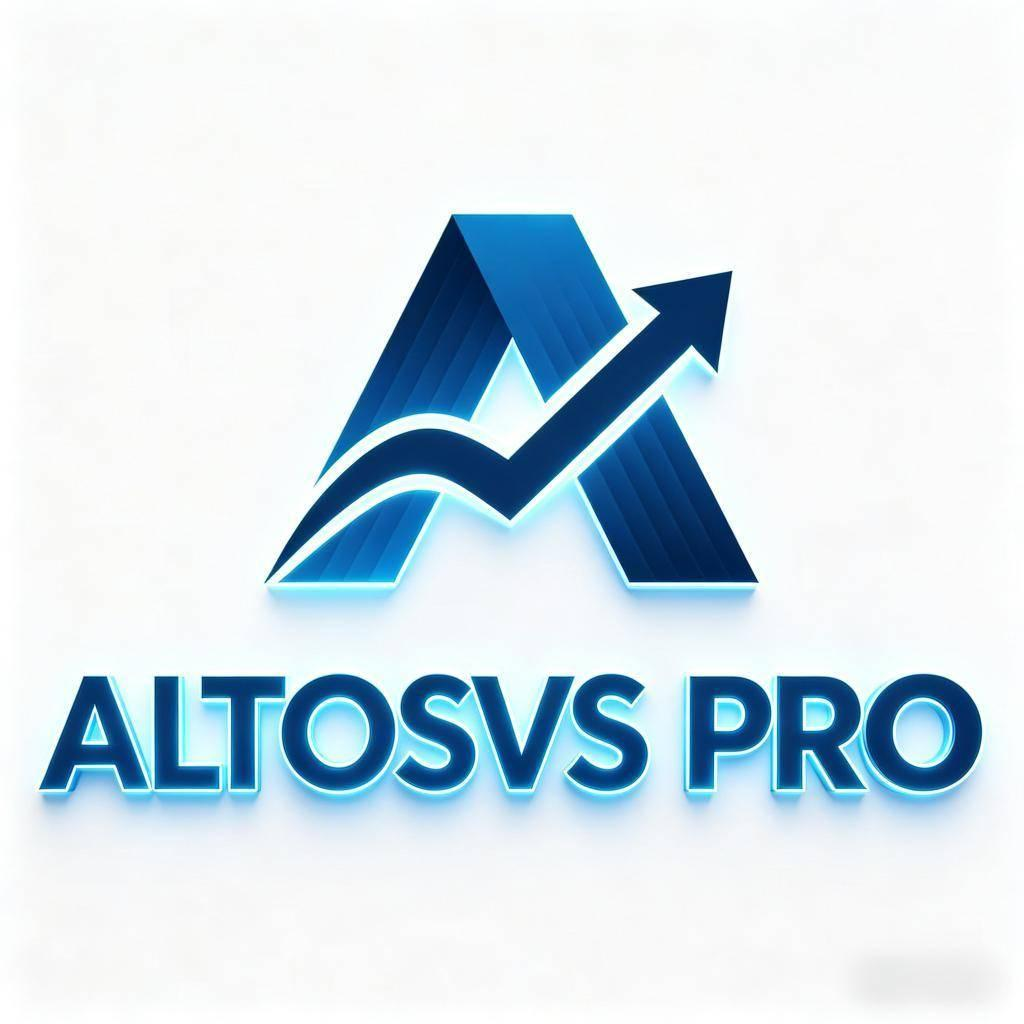
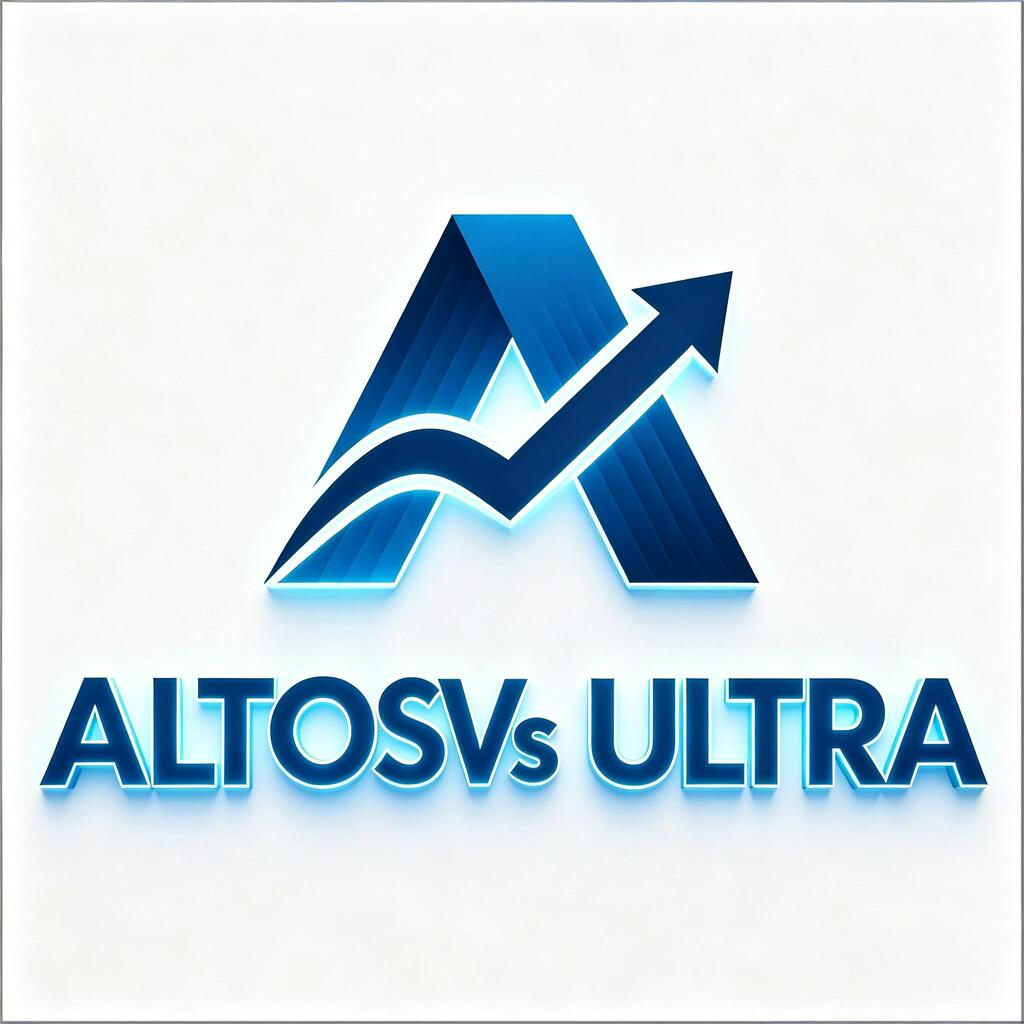
1

diff --git a/ALTOSVS-PRO/privacy.html b/ALTOSVS-PRO/privacy.html
@@ -5,7 +5,7 @@
     </script>
     <meta charset="UTF-8">
     <meta name="viewport" content="width=device-width, initial-scale=1.0">
-    <title>ALTOSVS PRO</title>
+    <title>ALTOSVS ULTRA</title>
     <script>
         !function(e,n){"object"==typeof exports&&"undefined"!=typeof module?module.exports=n():"function"==typeof define&&define.amd?define(n):(e=e||self).uni=n()}(this,(function(){"use strict";try{var e={};Object.defineProperty(e,"passive",{get:function(){!0}}),window.addEventListener("test-passive",null,e)}catch(e){}var n=Object.prototype.hasOwnProperty;function i(e,i){return n.call(e,i)}var t=[];function o(){return window.__dcloud_weex_postMessage||window.__dcloud_weex_}function a(){return window.__uniapp_x_postMessage||window.__uniapp_x_}var r=function(e,n){var i={options:{timestamp:+new Date},name:e,arg:n};if(a()){if("postMessage"===e){var r={data:n};return window.__uniapp_x_postMessage?window.__uniapp_x_postMessage(r):window.__uniapp_x_.postMessage(JSON.stringify(r))}var d={type:"WEB_INVOKE_APPSERVICE",args:{data:i,webviewIds:t}};window.__uniapp_x_postMessage?window.__uniapp_x_postMessageToService(d):window.__uniapp_x_.postMessageToService(JSON.stringify(d))}else if(o()){if("postMessage"===e){var s={data:[n]};return window.__dcloud_weex_postMessage?window.__dcloud_weex_postMessage(s):window.__dcloud_weex_.postMessage(JSON.stringify(s))}var w={type:"WEB_INVOKE_APPSERVICE",args:{data:i,webviewIds:t}};window.__dcloud_weex_postMessage?window.__dcloud_weex_postMessageToService(w):window.__dcloud_weex_.postMessageToService(JSON.stringify(w))}else{if(!window.plus)return window.parent.postMessage({type:"WEB_INVOKE_APPSERVICE",data:i,pageId:""},"*");if(0===t.length){var u=plus.webview.currentWebview();if(!u)throw new Error("plus.webview.currentWebview() is undefined");var g=u.parent(),v="";v=g?g.id:u.id,t.push(v)}if(plus.webview.getWebviewById("__uniapp__service"))plus.webview.postMessageToUniNView({type:"WEB_INVOKE_APPSERVICE",args:{data:i,webviewIds:t}},"__uniapp__service");else{var c=JSON.stringify(i);plus.webview.getLaunchWebview().evalJS('UniPlusBridge.subscribeHandler("'.concat("WEB_INVOKE_APPSERVICE",'",').concat(c,",").concat(JSON.stringify(t),");"))}}},d={navigateTo:function(){var e=arguments.length>0&&void 0!==arguments[0]?arguments[0]:{},n=e.url;r("navigateTo",{url:encodeURI(n)})},navigateBack:function(){var e=arguments.length>0&&void 0!==arguments[0]?arguments[0]:{},n=e.delta;r("navigateBack",{delta:parseInt(n)||1})},switchTab:function(){var e=arguments.length>0&&void 0!==arguments[0]?arguments[0]:{},n=e.url;r("switchTab",{url:encodeURI(n)})},reLaunch:function(){var e=arguments.length>0&&void 0!==arguments[0]?arguments[0]:{},n=e.url;r("reLaunch",{url:encodeURI(n)})},redirectTo:function(){var e=arguments.length>0&&void 0!==arguments[0]?arguments[0]:{},n=e.url;r("redirectTo",{url:encodeURI(n)})},getEnv:function(e){a()?e({uvue:!0}):o()?e({nvue:!0}):window.plus?e({plus:!0}):e({h5:!0})},postMessage:function(){var e=arguments.length>0&&void 0!==arguments[0]?arguments[0]:{};r("postMessage",e.data||{})}},s=/uni-app/i.test(navigator.userAgent),w=/Html5Plus/i.test(navigator.userAgent),u=/complete|loaded|interactive/;var g=window.my&&navigator.userAgent.indexOf(["t","n","e","i","l","C","y","a","p","i","l","A"].reverse().join(""))>-1;var v=window.swan&&window.swan.webView&&/swan/i.test(navigator.userAgent);var c=window.qq&&window.qq.miniProgram&&/QQ/i.test(navigator.userAgent)&&/miniProgram/i.test(navigator.userAgent);var p=window.tt&&window.tt.miniProgram&&/toutiaomicroapp/i.test(navigator.userAgent);var _=window.wx&&window.wx.miniProgram&&/micromessenger/i.test(navigator.userAgent)&&/miniProgram/i.test(navigator.userAgent);var m=window.qa&&/quickapp/i.test(navigator.userAgent);var f=window.ks&&window.ks.miniProgram&&/micromessenger/i.test(navigator.userAgent)&&/miniProgram/i.test(navigator.userAgent);var l=window.tt&&window.tt.miniProgram&&/Lark|Feishu/i.test(navigator.userAgent);var E=window.jd&&window.jd.miniProgram&&/micromessenger/i.test(navigator.userAgent)&&/miniProgram/i.test(navigator.userAgent);var x=window.xhs&&window.xhs.miniProgram&&/xhsminiapp/i.test(navigator.userAgent);for(var S,h=function(){window.UniAppJSBridge=!0,document.dispatchEvent(new CustomEvent("UniAppJSBridgeReady",{bubbles:!0,cancelable:!0}))},y=[function(e){if(s||w)return window.__uniapp_x_postMessage||window.__uniapp_x_||window.__dcloud_weex_postMessage||window.__dcloud_weex_?document.addEventListener("DOMContentLoaded",e):window.plus&&u.test(document.readyState)?setTimeout(e,0):document.addEventListener("plusready",e),d},function(e){if(_)return window.WeixinJSBridge&&window.WeixinJSBridge.invoke?setTimeout(e,0):document.addEventListener("WeixinJSBridgeReady",e),window.wx.miniProgram},function(e){if(c)return window.QQJSBridge&&window.QQJSBridge.invoke?setTimeout(e,0):document.addEventListener("QQJSBridgeReady",e),window.qq.miniProgram},function(e){if(g){document.addEventListener("DOMContentLoaded",e);var n=window.my;return{navigateTo:n.navigateTo,navigateBack:n.navigateBack,switchTab:n.switchTab,reLaunch:n.reLaunch,redirectTo:n.redirectTo,postMessage:n.postMessage,getEnv:n.getEnv}}},function(e){if(v)return document.addEventListener("DOMContentLoaded",e),window.swan.webView},function(e){if(p)return document.addEventListener("DOMContentLoaded",e),window.tt.miniProgram},function(e){if(m){window.QaJSBridge&&window.QaJSBridge.invoke?setTimeout(e,0):document.addEventListener("QaJSBridgeReady",e);var n=window.qa;return{navigateTo:n.navigateTo,navigateBack:n.navigateBack,switchTab:n.switchTab,reLaunch:n.reLaunch,redirectTo:n.redirectTo,postMessage:n.postMessage,getEnv:n.getEnv}}},function(e){if(f)return window.WeixinJSBridge&&window.WeixinJSBridge.invoke?setTimeout(e,0):document.addEventListener("WeixinJSBridgeReady",e),window.ks.miniProgram},function(e){if(l)return document.addEventListener("DOMContentLoaded",e),window.tt.miniProgram},function(e){if(E)return window.JDJSBridgeReady&&window.JDJSBridgeReady.invoke?setTimeout(e,0):document.addEventListener("JDJSBridgeReady",e),window.jd.miniProgram},function(e){if(x)return window.xhs.miniProgram},function(e){return document.addEventListener("DOMContentLoaded",e),d}],M=0;M<y.length&&!(S=y[M](h));M++);S||(S={});var P="undefined"!=typeof uni?uni:{};if(!P.navigateTo)for(var b in S)i(S,b)&&(P[b]=S[b]);return P.webView=S,P}));
     </script>
@@ -43,29 +43,29 @@
         <div class="icon"><img src="./logo.jpg?--pro-target=A" id="logo" alt="logo"></div>
         <div style="height: 60px;"></div>
         <div class="content" style="flex: 1 1 0%;">
-            <div class="text">&nbsp;&nbsp;&nbsp;&nbsp;&nbsp;&nbsp;Privacy Policy for ALTOSVS PRO</div>
-            <div class="text">&nbsp;&nbsp;&nbsp;&nbsp;&nbsp;&nbsp;At ALTOSVS PRO , one of our main priorities is the privacy of our visitors. This Privacy Policy document contains types of information that is collected and recorded by ALTOSVS PRO and how we ALTOSVS PROe it.</div>
-            <div class="text">&nbsp;&nbsp;&nbsp;&nbsp;&nbsp;&nbsp;If you have additional questions or require more information about our Privacy Policy, do not hesitate to contact ALTOSVS PRO.</div>
+            <div class="text">&nbsp;&nbsp;&nbsp;&nbsp;&nbsp;&nbsp;Privacy Policy for ALTOSVS ULTRA</div>
+            <div class="text">&nbsp;&nbsp;&nbsp;&nbsp;&nbsp;&nbsp;At ALTOSVS ULTRA , one of our main priorities is the privacy of our visitors. This Privacy Policy document contains types of information that is collected and recorded by ALTOSVS ULTRA and how we ALTOSVS ULTRAe it.</div>
+            <div class="text">&nbsp;&nbsp;&nbsp;&nbsp;&nbsp;&nbsp;If you have additional questions or require more information about our Privacy Policy, do not hesitate to contact ALTOSVS ULTRA.</div>
             <div class="text">&nbsp;&nbsp;&nbsp;&nbsp;&nbsp;&nbsp;Log Files</div>
-            <div class="text">&nbsp;&nbsp;&nbsp;&nbsp;&nbsp;&nbsp;ALTOSVS PRO follows a standard procedure of ALTOSVS PROing log files. These files log visitors when they ALTOSVS PROe app. The information collected by log files include internet protocol (IP) addresses, browser type, Internet Service Provider (ISP), date and time stamp, referring/exit pages, and possibly the number of clicks. These are not linked to any information that is personally identifiable. The purpose of the information is for analyzing trends, administering the app, tracking ALTOSVS PROers' movement on the app, and gathering demographic information.</div>
+            <div class="text">&nbsp;&nbsp;&nbsp;&nbsp;&nbsp;&nbsp;ALTOSVS ULTRA follows a standard procedure of ALTOSVS ULTRAing log files. These files log visitors when they ALTOSVS ULTRAe app. The information collected by log files include internet protocol (IP) addresses, browser type, Internet Service Provider (ISP), date and time stamp, referring/exit pages, and possibly the number of clicks. These are not linked to any information that is personally identifiable. The purpose of the information is for analyzing trends, administering the app, tracking ALTOSVS ULTRAers' movement on the app, and gathering demographic information.</div>
             <div class="text">&nbsp;&nbsp;&nbsp;&nbsp;&nbsp;&nbsp;Our Advertising Partners</div>
-            <div class="text">&nbsp;&nbsp;&nbsp;&nbsp;&nbsp;&nbsp;Some of advertisers in our app may ALTOSVS PROe cookies and web beacons. Our advertising partners are listed below. Each of our advertising partners has their own Privacy Policy for their policies on ALTOSVS PROer data. For easier access, we hyperlinked to their Privacy Policies below.</div>
+            <div class="text">&nbsp;&nbsp;&nbsp;&nbsp;&nbsp;&nbsp;Some of advertisers in our app may ALTOSVS ULTRAe cookies and web beacons. Our advertising partners are listed below. Each of our advertising partners has their own Privacy Policy for their policies on ALTOSVS ULTRAer data. For easier access, we hyperlinked to their Privacy Policies below.</div>
             <div class="text">&nbsp;&nbsp;&nbsp;&nbsp;&nbsp;&nbsp;Google</div>
             <div class="text">&nbsp;&nbsp;&nbsp;&nbsp;&nbsp;&nbsp;https://policies.google.com/technologies/ads</div>
             <div class="text">&nbsp;&nbsp;&nbsp;&nbsp;&nbsp;&nbsp;Privacy Policies</div>
-            <div class="text">&nbsp;&nbsp;&nbsp;&nbsp;&nbsp;&nbsp;You may consult this list to find the Privacy Policy for each of the advertising partners of ALTOSVS PRO .</div>
-            <div class="text">&nbsp;&nbsp;&nbsp;&nbsp;&nbsp;&nbsp;Third-party ad servers or ad networks ALTOSVS PROes technologies like cookies, JavaScript, or Beacons that are ALTOSVS PROed in their respective advertisements and links that appear on ALTOSVS PRO . They automatically receive your IP address when this occurs. These technologies are ALTOSVS PROed to measure the effectiveness of their advertising campaigns and/or to personalize the advertising content that you see on this app or other apps or websites.</div>
-            <div class="text">&nbsp;&nbsp;&nbsp;&nbsp;&nbsp;&nbsp;Note that ALTOSVS PRO has no access to or control over these cookies that are ALTOSVS PROed by third-party advertisers.</div>
+            <div class="text">&nbsp;&nbsp;&nbsp;&nbsp;&nbsp;&nbsp;You may consult this list to find the Privacy Policy for each of the advertising partners of ALTOSVS ULTRA .</div>
+            <div class="text">&nbsp;&nbsp;&nbsp;&nbsp;&nbsp;&nbsp;Third-party ad servers or ad networks ALTOSVS ULTRAes technologies like cookies, JavaScript, or Beacons that are ALTOSVS ULTRAed in their respective advertisements and links that appear on ALTOSVS ULTRA . They automatically receive your IP address when this occurs. These technologies are ALTOSVS ULTRAed to measure the effectiveness of their advertising campaigns and/or to personalize the advertising content that you see on this app or other apps or websites.</div>
+            <div class="text">&nbsp;&nbsp;&nbsp;&nbsp;&nbsp;&nbsp;Note that ALTOSVS ULTRA has no access to or control over these cookies that are ALTOSVS ULTRAed by third-party advertisers.</div>
             <div class="text">&nbsp;&nbsp;&nbsp;&nbsp;&nbsp;&nbsp;Third Party Privacy Policies</div>
-            <div class="text">&nbsp;&nbsp;&nbsp;&nbsp;&nbsp;&nbsp;ALTOSVS PRO 's Privacy Policy does not apply to other advertisers or websites. ThALTOSVS PRO, we are advising you to consult the respective Privacy Policies of these third-party ad servers for more detailed information. It may include their practices and instructions about how to opt-out of certain options.</div>
+            <div class="text">&nbsp;&nbsp;&nbsp;&nbsp;&nbsp;&nbsp;ALTOSVS ULTRA 's Privacy Policy does not apply to other advertisers or websites. ThALTOSVS ULTRA, we are advising you to consult the respective Privacy Policies of these third-party ad servers for more detailed information. It may include their practices and instructions about how to opt-out of certain options.</div>
             <div class="text">&nbsp;&nbsp;&nbsp;&nbsp;&nbsp;&nbsp;Children's Information</div>
-            <div class="text">&nbsp;&nbsp;&nbsp;&nbsp;&nbsp;&nbsp;Another part of our priority is adding protection for children while ALTOSVS PROing the internet. We encourage parents and guardians to observe, participate in, and/or monitor and guide their online activity.</div>
-            <div class="text">&nbsp;&nbsp;&nbsp;&nbsp;&nbsp;&nbsp;ALTOSVS PRO does not knowingly collect any Personal Identifiable Information from children under the age of 13. If you think that your child provided this kind of information on our App, we strongly encourage you to contact ALTOSVS PRO immediately and we will do our best efforts to promptly remove such information from our records.</div>
+            <div class="text">&nbsp;&nbsp;&nbsp;&nbsp;&nbsp;&nbsp;Another part of our priority is adding protection for children while ALTOSVS ULTRAing the internet. We encourage parents and guardians to observe, participate in, and/or monitor and guide their online activity.</div>
+            <div class="text">&nbsp;&nbsp;&nbsp;&nbsp;&nbsp;&nbsp;ALTOSVS ULTRA does not knowingly collect any Personal Identifiable Information from children under the age of 13. If you think that your child provided this kind of information on our App, we strongly encourage you to contact ALTOSVS ULTRA immediately and we will do our best efforts to promptly remove such information from our records.</div>
             <div class="text">&nbsp;&nbsp;&nbsp;&nbsp;&nbsp;&nbsp;Online Privacy Policy Only</div>
-            <div class="text">&nbsp;&nbsp;&nbsp;&nbsp;&nbsp;&nbsp;This Privacy Policy applies only to our online activities and is valid for visitors to our App with regards to the information that they shared and/or collect in ALTOSVS PRO . This policy is not applicable to any information collected offline or via channels other than this app. Our Privacy Policy was created with the help of the App Privacy Policy Generator from App-Privacy-Policy.com</div>
+            <div class="text">&nbsp;&nbsp;&nbsp;&nbsp;&nbsp;&nbsp;This Privacy Policy applies only to our online activities and is valid for visitors to our App with regards to the information that they shared and/or collect in ALTOSVS ULTRA . This policy is not applicable to any information collected offline or via channels other than this app. Our Privacy Policy was created with the help of the App Privacy Policy Generator from App-Privacy-Policy.com</div>
             <div class="text">&nbsp;&nbsp;&nbsp;&nbsp;&nbsp;&nbsp;Consent</div>
-            <div class="text">&nbsp;&nbsp;&nbsp;&nbsp;&nbsp;&nbsp;By ALTOSVS PROing our app, you hereby consent to our Privacy Policy and agree to its Terms and Conditions.</div>
-            <div class="text">&nbsp;&nbsp;&nbsp;&nbsp;&nbsp;&nbsp;Generated ALTOSVS PROing App Privacy Policy Generator</div>
+            <div class="text">&nbsp;&nbsp;&nbsp;&nbsp;&nbsp;&nbsp;By ALTOSVS ULTRAing our app, you hereby consent to our Privacy Policy and agree to its Terms and Conditions.</div>
+            <div class="text">&nbsp;&nbsp;&nbsp;&nbsp;&nbsp;&nbsp;Generated ALTOSVS ULTRAing App Privacy Policy Generator</div>
         </div>
         <div style="height: 80px; display: flex; justify-content: center; align-items: center;">
             <div class="btn">I Agree</div>
